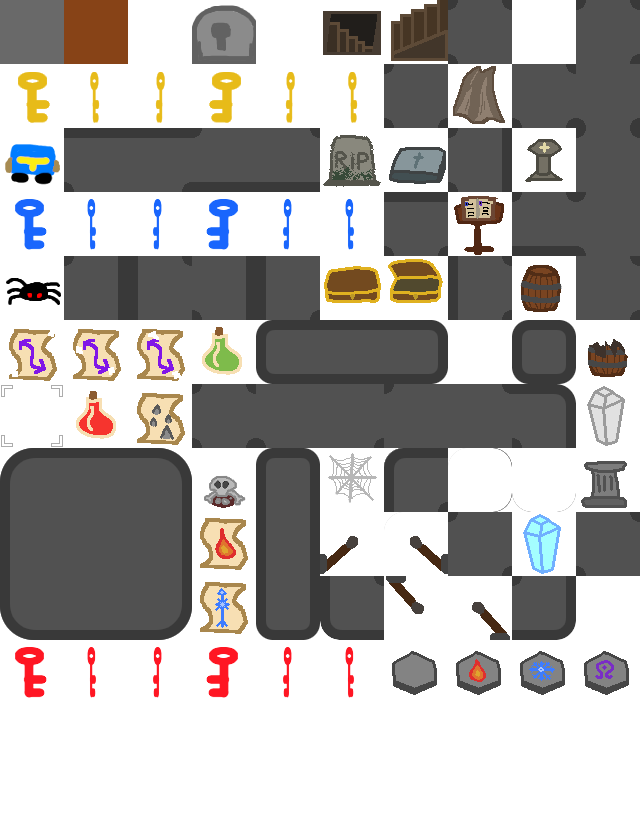
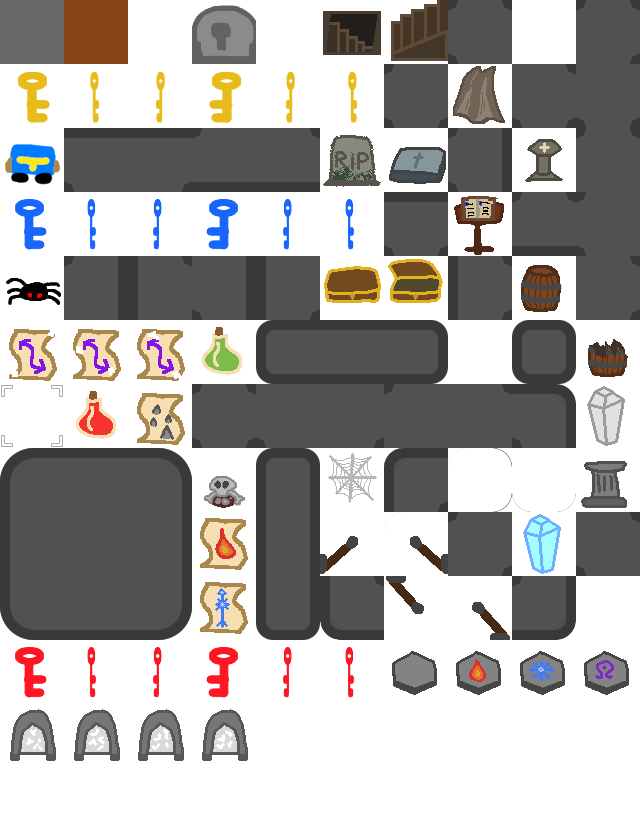
Weird broken teleporters

Changed region(s): [[0.2188, 0.8438, 0.4062, 0.9375], [0.0, 0.8438, 0.1875, 0.9375]]

diff --git a/MapGeneration/MapGenerator.cs b/MapGeneration/MapGenerator.cs
@@ -27,6 +27,8 @@ namespace Pandorai.MapGeneration
 
 		int[,] operatingArea;
 
+		Color _freeSpaceFloorColor = Helper.GetColorFromHex("#966c4b");
+
 		public Regions Rooms = new Regions();
 
 		public Point StartingPoint;
@@ -70,11 +72,42 @@ namespace Pandorai.MapGeneration
 
 			ProcessRooms();
 
+			PlaceTeleporters();
+
             stopwatch.Stop();
             Console.WriteLine(stopwatch.ElapsedMilliseconds);
 
             return map;
         }
+
+		private void PlaceTeleporters()
+		{
+			var freeSpace = new List<Point>();
+			for (int x = 0; x < map.GetLength(0); x++)
+			{
+				for (int y = 0; y < map.GetLength(1); y++)
+				{
+					if(!map[x, y].CollisionFlag && map[x, y].BaseColor == _freeSpaceFloorColor)
+					{
+						freeSpace.Add(new Point(x, y));
+					}
+				}
+			}
+
+			int noOfTeleporterPairs = 4;
+			for (int i = 0; i < noOfTeleporterPairs; i++)
+			{
+				var randomColor = new Color(rng.Next(256), rng.Next(256), rng.Next(256));
+				for (int j = 0; j < 2; j++)
+				{
+					var randomPoint = freeSpace.GetRandomElement(Game1.game.mainRng);
+					var teleporterInstance = PlaceStructure("Teleporter", randomPoint);
+					teleporterInstance.ColorTint = randomColor;
+					var teleporterBehaviour = teleporterInstance.GetBehaviour<Teleporter>();
+					teleporterBehaviour.Id = i;
+				}
+			}
+		}
 
 		private void ProcessRooms()
 		{
@@ -110,10 +143,9 @@ namespace Pandorai.MapGeneration
 					biggestRoomArea = room.Area.Count;
 				}
 			}
-			var defaultColor = Helper.GetColorFromHex("#966c4b");
 			foreach (var point in biggestRoom!.Area)
 			{
-				map[point.X, point.Y].BaseColor = defaultColor;
+				map[point.X, point.Y].BaseColor = _freeSpaceFloorColor;
 			}
 
 			// remove rooms that are too small to be considered rooms
@@ -393,6 +425,7 @@ namespace Pandorai.MapGeneration
 			};
 			tile.CollisionFlag = true;
 			structureInstance.BindBehaviours();
+			StructureManager.AddStructure(structureInstance);
 			return structureInstance;
 		}
 
@@ -1171,6 +1204,7 @@ namespace Pandorai.MapGeneration
 				{
 					Structure structureInstance = StructureLoader.GetStructure(entitySpec.Name);
 					structureInstance.Tile = new TileInfo(index, tile);
+					StructureManager.AddStructure(structureInstance);
 					if (entry.Inventory.Count > 0)
 					{
 						Container container = structureInstance.GetBehaviour<Container>();

diff --git a/Structures/Behaviours/Teleporter.cs b/Structures/Behaviours/Teleporter.cs
@@ -1,0 +1,62 @@
+using System.Linq;
+using Microsoft.Xna.Framework;
+using Pandorai.Creatures;
+using Pandorai.UI;
+using Pandorai.Utility;
+
+namespace Pandorai.Structures.Behaviours
+{
+    public class Teleporter : Behaviour
+    {
+        public int Id;
+
+		public override void Bind()
+		{
+			Structure.Interacted += Interact;
+		}
+
+		public override void Unbind()
+		{
+			Structure.Interacted -= Interact;
+		}
+
+        public override void Interact(Creature creature)
+        {
+            var otherTeleporter = StructureManager.Structures.Find(x => 
+            {
+                var teleporterBehaviour = x.GetBehaviour<Teleporter>();
+                return teleporterBehaviour != null && teleporterBehaviour.Id == Id && teleporterBehaviour != this;
+            });
+            if(otherTeleporter == null)
+            {
+                return;
+            }
+
+            var adjacentTiles = GenHelper.Get8Neighbours(otherTeleporter.Tile.Index);
+            var freeTile = adjacentTiles.FirstOrDefault(x => !Game1.game.Map.GetTile(x).CollisionFlag);
+            if(freeTile == Point.Zero)
+            {
+                MessageLog.DisplayMessage("The teleporter appears to be blocked");
+                return;
+            }
+
+            creature.RequestMovement(freeTile);
+        }
+
+        public override Behaviour Clone()
+        {
+            return new Teleporter
+            {
+                Id = Id,
+            };
+        }
+
+        public override void ForceHandler(ForceType force)
+        {
+        }
+
+        public override void SetAttribute(string name, string value)
+        {
+        }
+    }
+}

diff --git a/Game1.cs b/Game1.cs
@@ -163,6 +163,14 @@ namespace Pandorai
             InputManager.SingleKeyPress += GameStateManager.HandleInput;
             InputManager.SingleKeyPress += CheatConsole.ActivationHandler;
             InputManager.SingleKeyPress += CheatShortcuts.HandleKeyInput;
+            InputManager.SingleKeyPress += k =>
+            {
+                if(k == Keys.NumPad0)
+                {
+                    Options.TileSize = Options.DefaultUnitSize;
+                }
+            };
+
             InputManager.MouseMove += GameStateManager.CheckIfMouseOverViewport;
             InputManager.LMBClick += GameStateManager.CheckIfLMBClickInViewport;
             InputManager.RMBClick += GameStateManager.CheckIfRMBClickInViewport;

diff --git a/Structures/StructureManager.cs b/Structures/StructureManager.cs
@@ -1,4 +1,5 @@
-using System.Linq;
+using System.Collections.Generic;
+using System.Linq;
 using Pandorai.Creatures;
 using Pandorai.Structures.Behaviours;
 using Pandorai.Tilemaps;
@@ -7,6 +8,13 @@ namespace Pandorai.Structures
 {
 	public static class StructureManager
 	{
+		public static List<Structure> Structures = new();
+
+		public static void AddStructure(Structure structure)
+		{
+			Structures.Add(structure);
+		}
+
 		public static void CheckStructureInteraction(Creature incomingCreature, TileInfo info)
 		{
 			if (incomingCreature.Class != CreatureClass.Human) return;

diff --git a/Sprites/TilesheetManager.cs b/Sprites/TilesheetManager.cs
@@ -126,6 +126,8 @@ namespace Pandorai.Sprites
 			AddMapSprite(512, 512, 64, 64, 0, 0); // region gem 86
 
 			AddMapSprite(320, 448, 64, 64, 0, 0); // spider web 87
+
+			AddMapSprite(0, 704, 64, 64, 4, 300); // teleporter 88
 		}
 
 		public static void AddCreatureSprite(int startX, int startY, int spriteWidth, int spriteHeight, int frameCount, float timePerFrame)

diff --git a/TypeLegends.cs b/TypeLegends.cs
@@ -36,6 +36,7 @@ namespace Pandorai
 			{ "LightEmitter", typeof(LightEmitter) },
 			{ "Door", typeof(Door) },
 			{ "Dialogue", typeof(Dialogue) },
+			{ "Teleporter", typeof(Teleporter) },
 		};
 
         public static Dictionary<string, Type> CreatureBehaviours = new Dictionary<string, Type>

diff --git a/Mechanics/TurnManager.cs b/Mechanics/TurnManager.cs
@@ -86,6 +86,11 @@ namespace Pandorai.Mechanics
 					PlayerCanMove = false;
 					PlayerTurnEnded?.Invoke();
 				}
+
+				if((timeSinceTurnStart + dt * 1000) / heroTurnTime >= 1.0f)
+				{
+					PercentageCompleted = 1.0f;
+				}
 			}
 
 			if(TurnState == TurnState.WaitingForEnemy)

diff --git a/Cheats/CheatShortcuts.cs b/Cheats/CheatShortcuts.cs
@@ -10,7 +10,7 @@ namespace Pandorai.Cheats
 	{
 		public static Game1 game;
 
-		public static bool Activated = false;
+		public static bool Activated = true;
 
 		public static void HandleKeyInput(Keys key)
 		{
